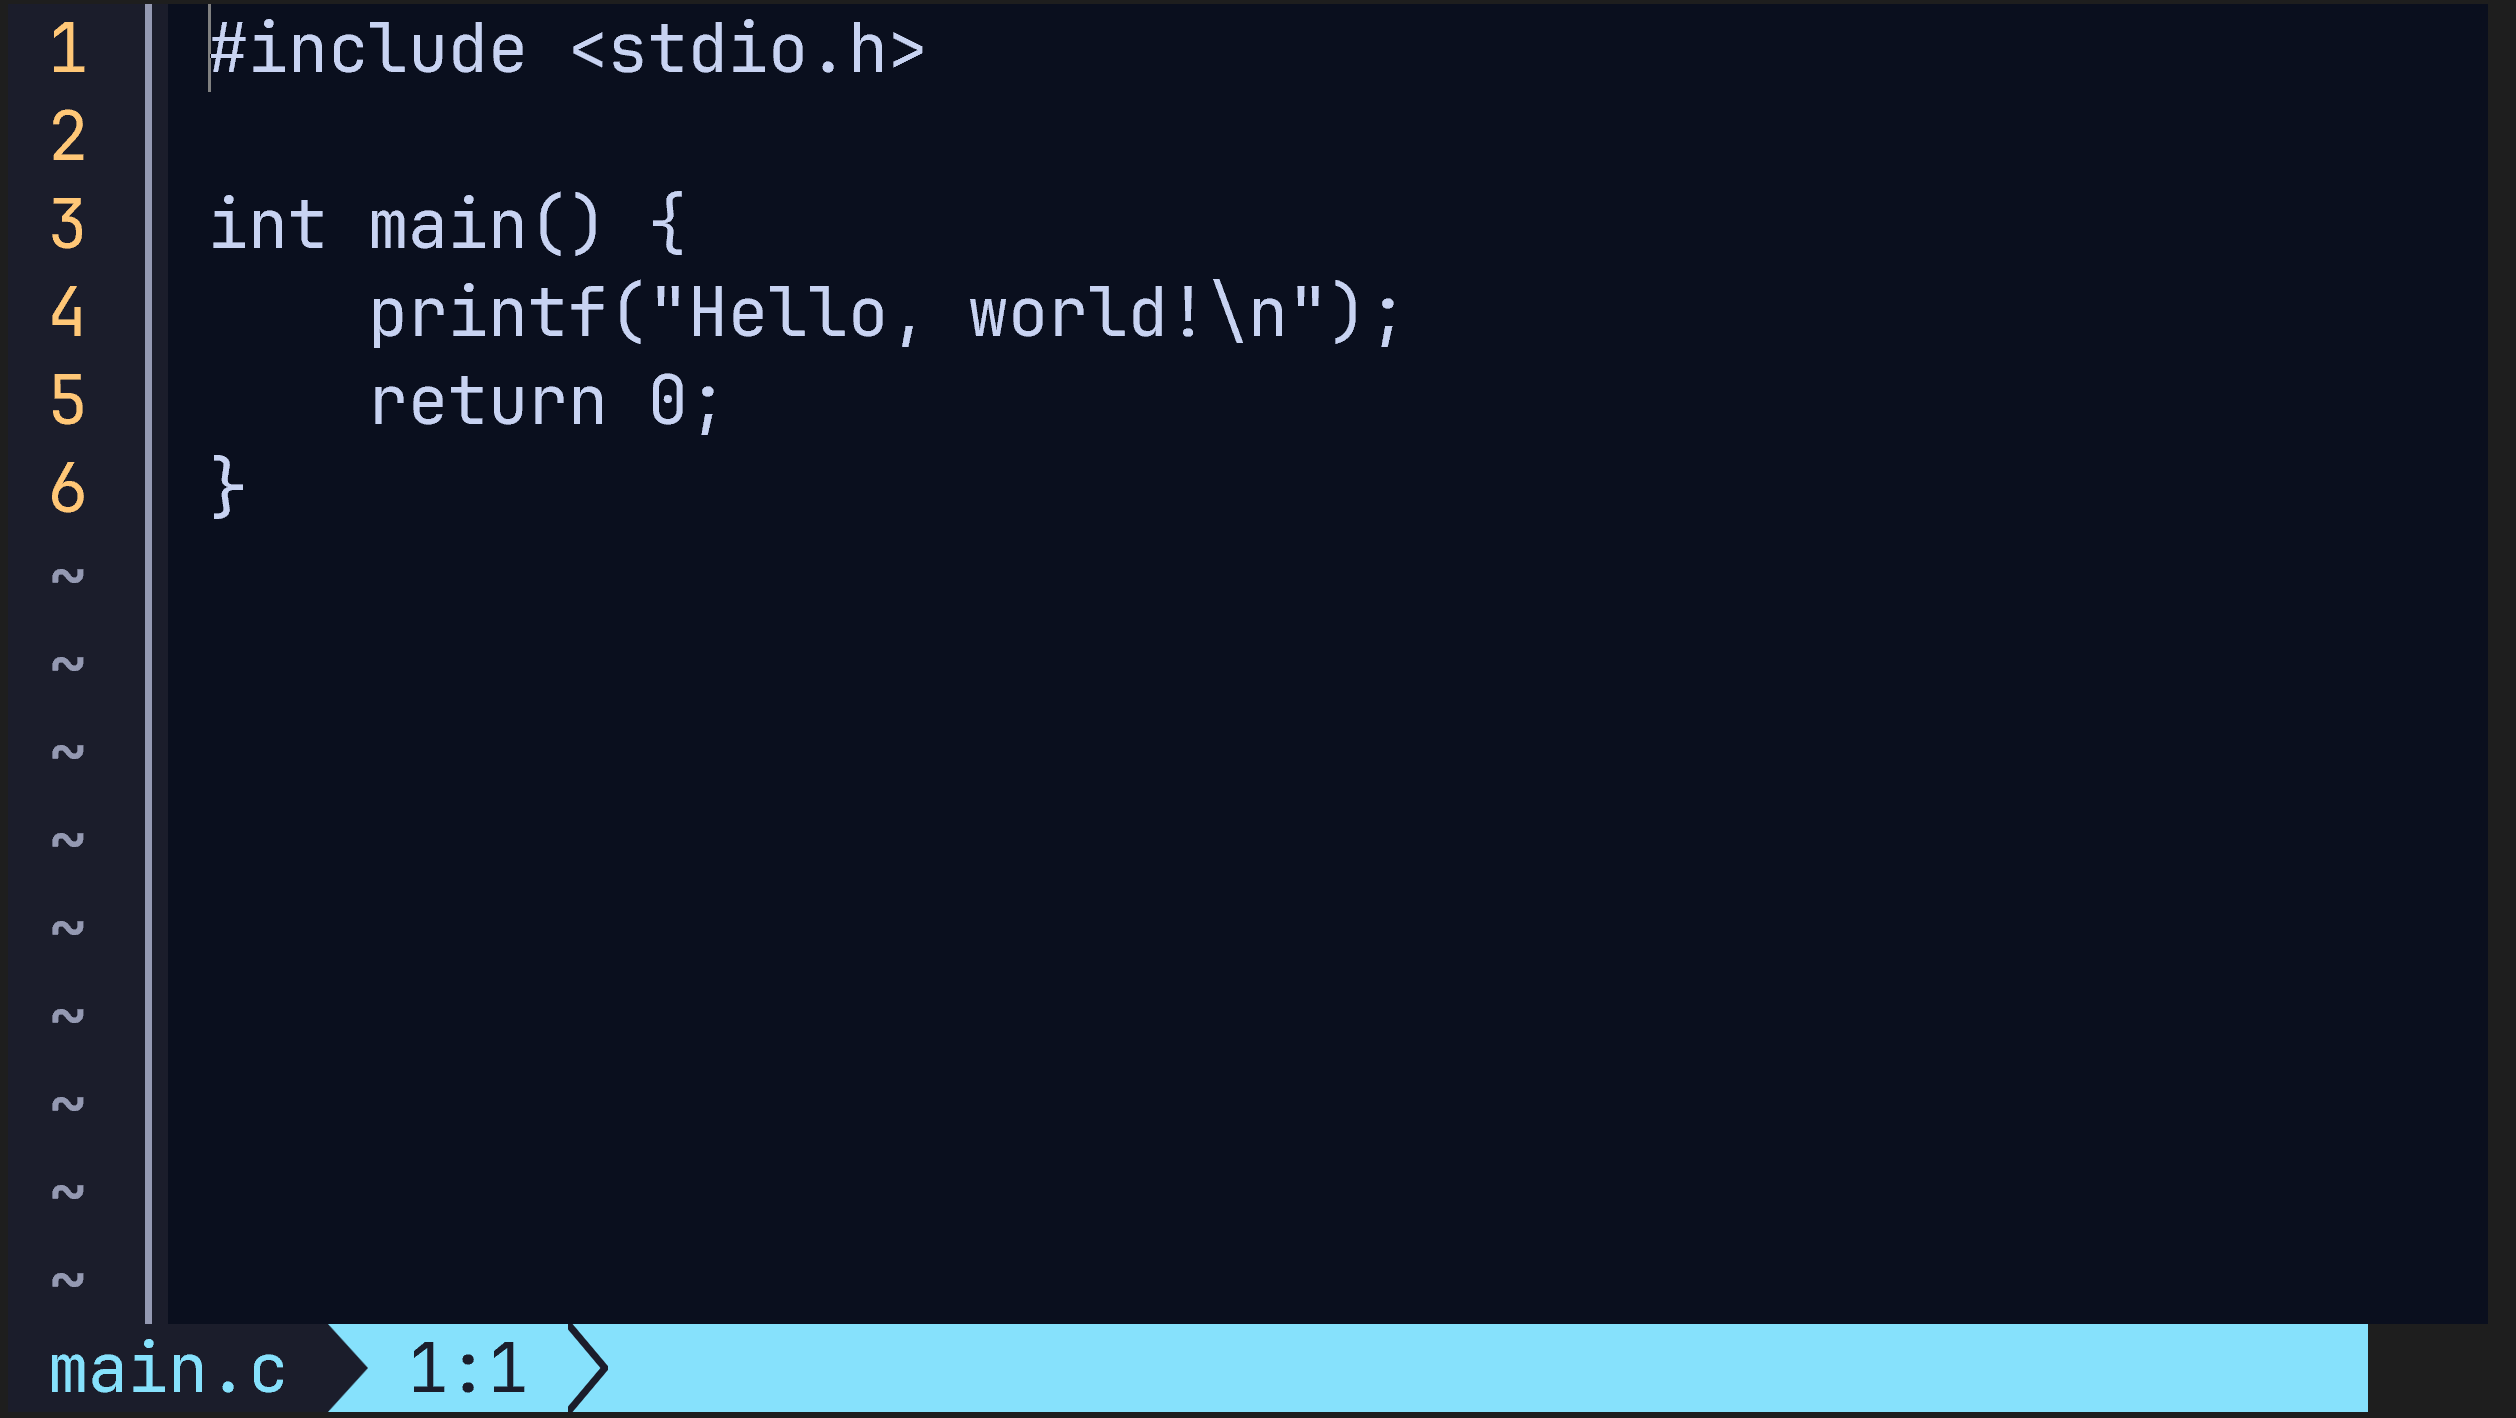
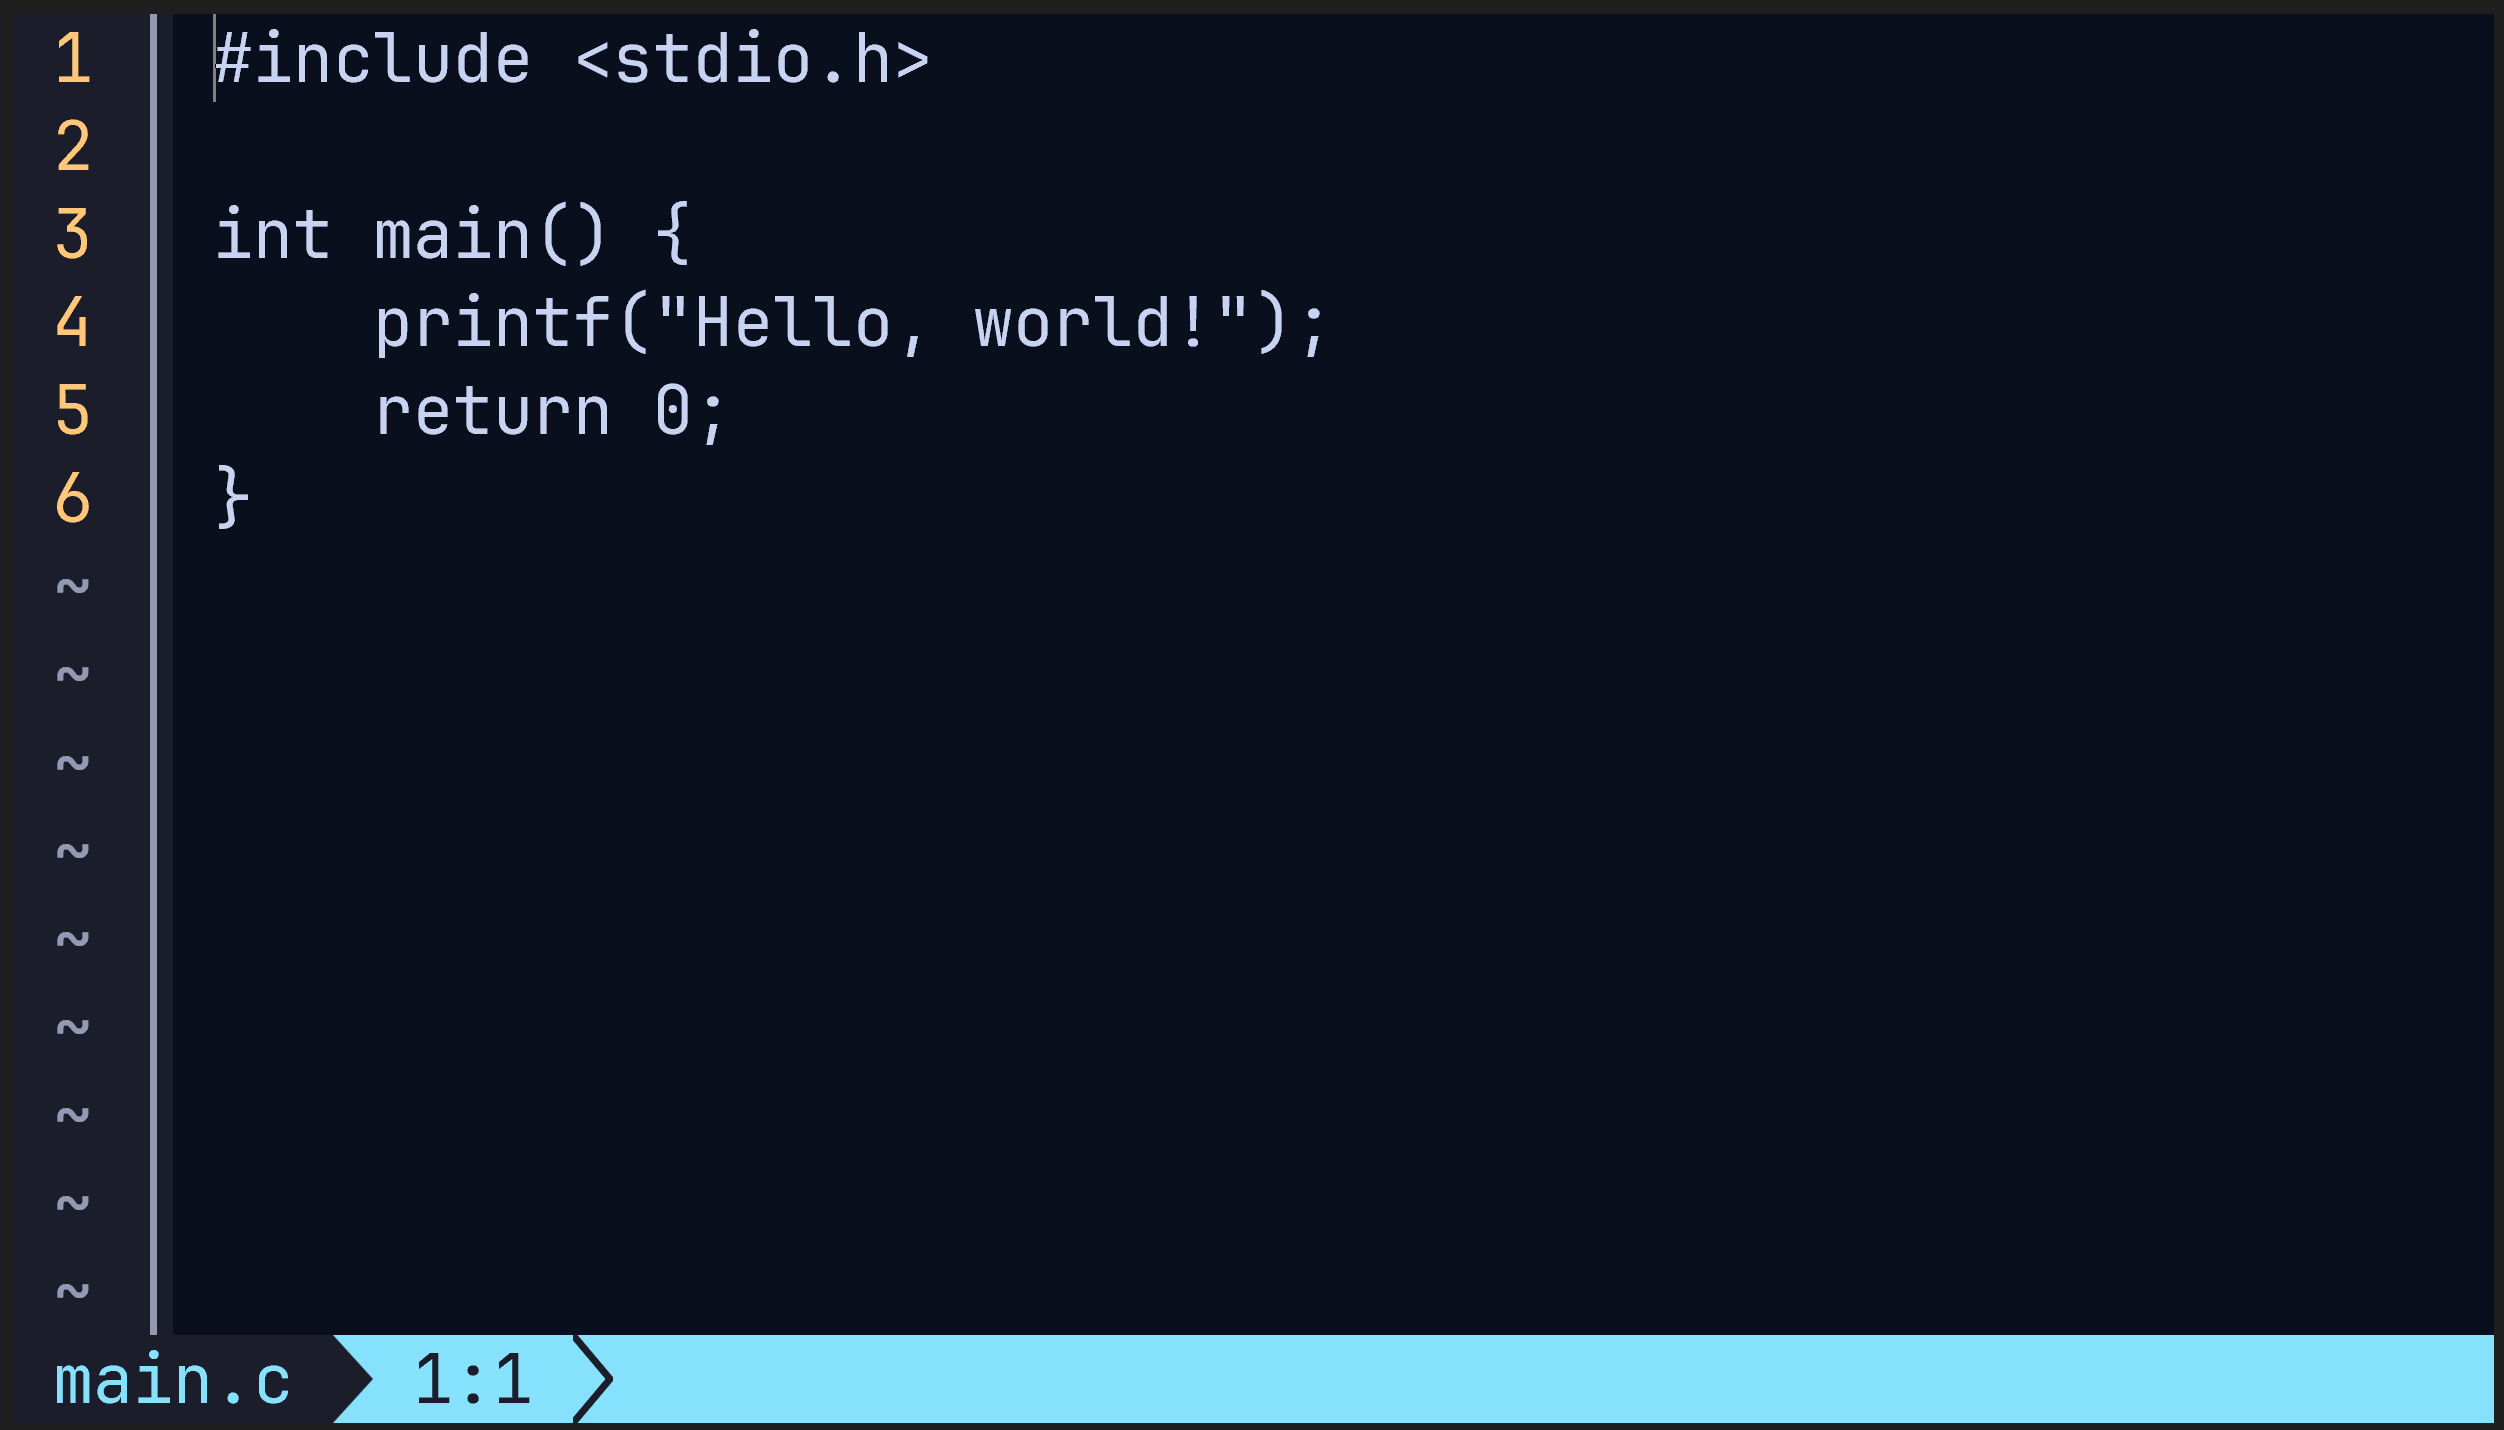
fixed status bar to fill up entire terminal width

Changed region(s): [[0.0, 0.0, 0.5607, 1.0], [0.9345, 0.9309, 0.9968, 1.0]]

diff --git a/src/main.rs b/src/main.rs
@@ -42,7 +42,7 @@ fn render_status_bar<P: AsRef<str>>(
     )?;
     let mut file_name_len = 0;
     if let Some(p) = file_name {
-        file_name_len = p.as_ref().chars().count() + 2;
+        file_name_len = p.as_ref().chars().count();
         let mut fmt = format!(" {} ", p.as_ref());
         fmt.truncate(Editor::char_to_byte(term_size.0 as usize - 1, &fmt));
         exec!(
@@ -56,9 +56,9 @@ fn render_status_bar<P: AsRef<str>>(
         cursor_pos.1 + 1, // line
         cursor_pos.0 + 1, // col
     );
-    let pos_trunc = (term_size.0 as usize).saturating_sub(file_name_len + 1);
+    let pos_trunc = (term_size.0 as usize).saturating_sub(file_name_len);
     pos_fmt.truncate(Editor::char_to_byte(pos_trunc, &pos_fmt));
-    let sb_len = file_name_len + pos_fmt.len();
+    let sb_len = file_name_len + pos_fmt.chars().count();
     exec!(
         style::SetForegroundColor(theme.status_bar_fg),
         style::SetBackgroundColor(theme.status_bar_bg),